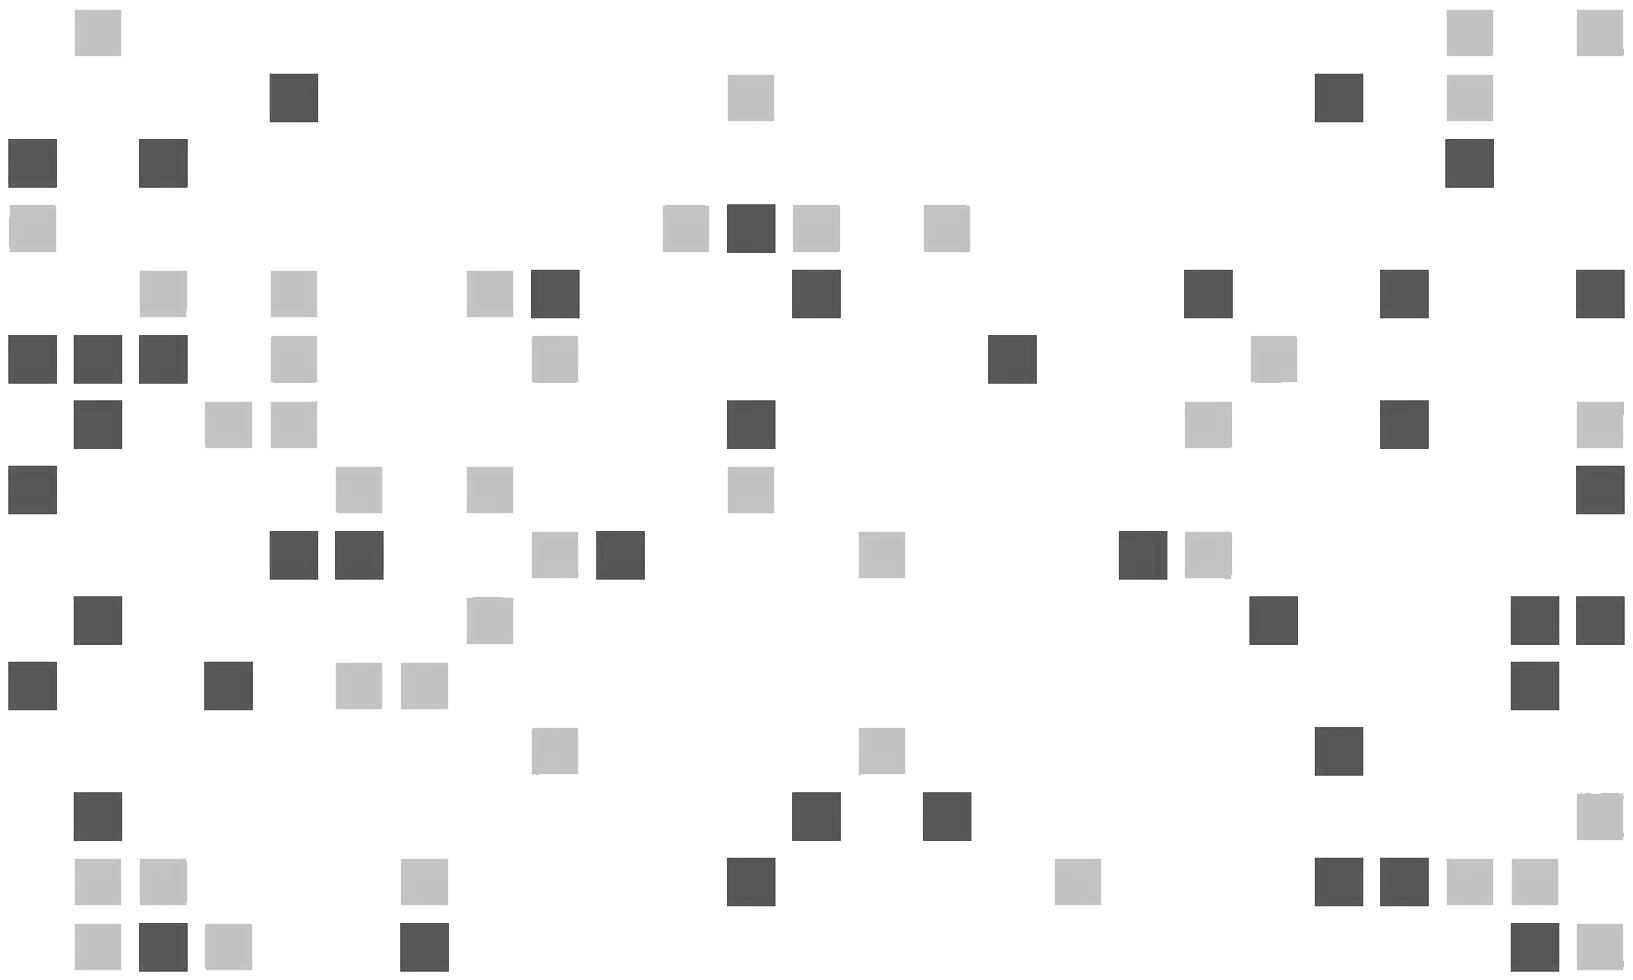
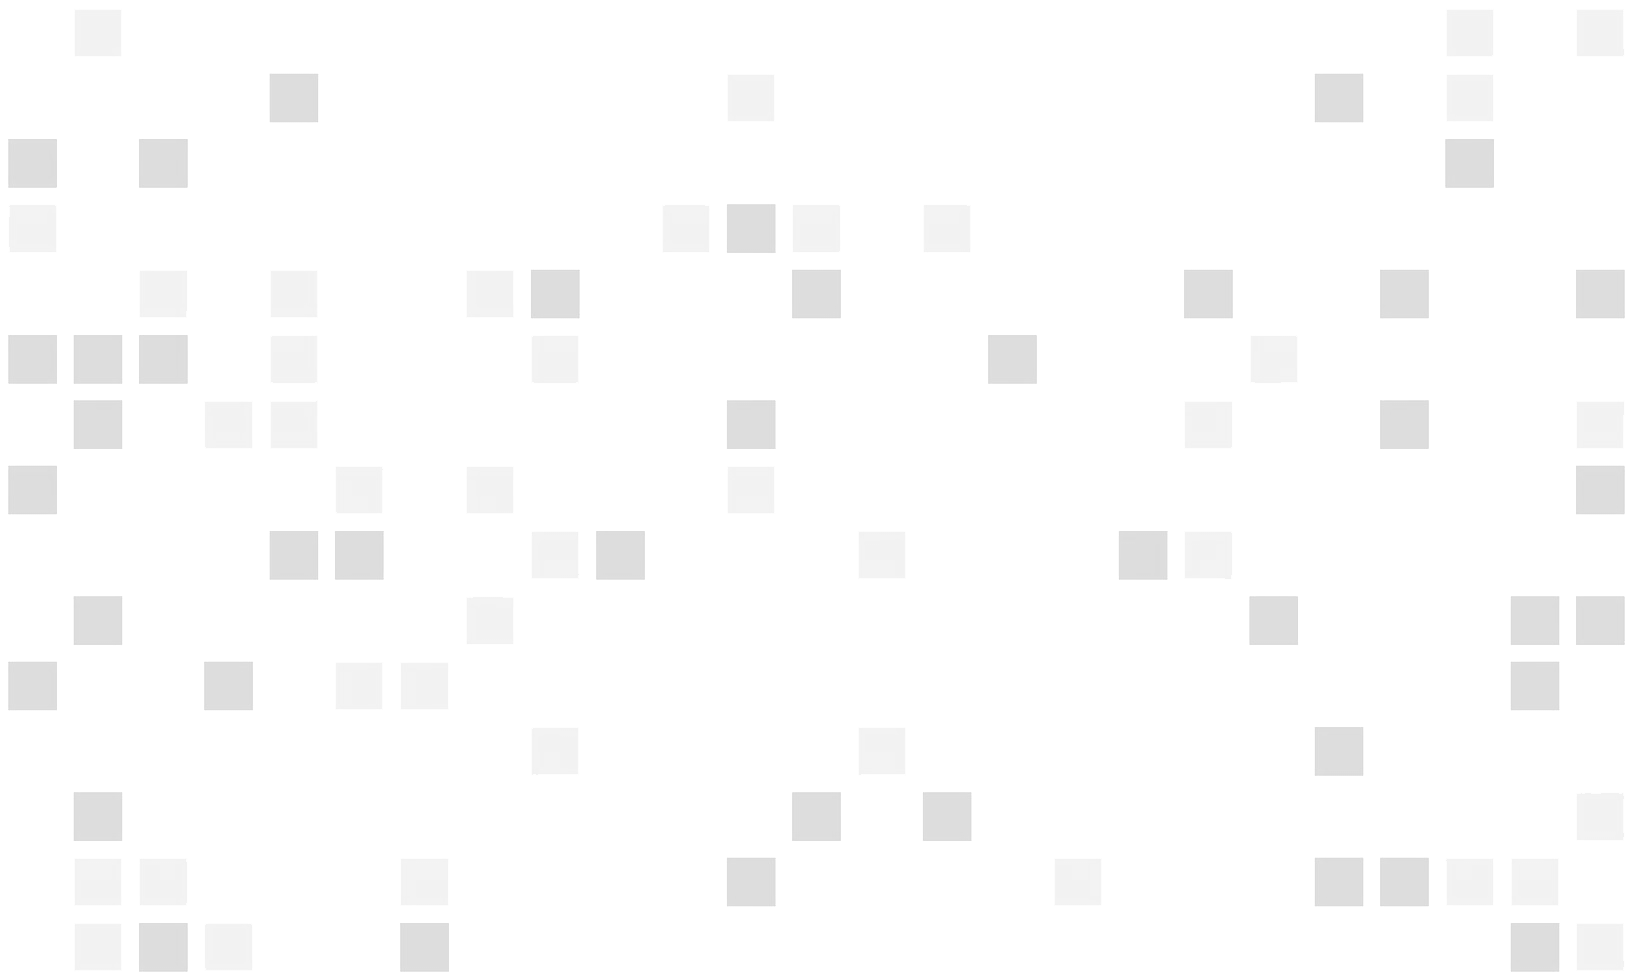
Fixing Background

diff --git a/src/styles/main.css b/src/styles/main.css
@@ -7,11 +7,7 @@ html { scroll-behavior: smooth; }
 body {
   font-family: var(--font-sans);
   font-size: var(--text-base);
-  background-color: var(--color-paper);
-  background-repeat: repeat-x;
-  background-size: auto 165px;
-  background-position: left bottom;
-  background-attachment: fixed;
+  background: var(--color-paper);
   color: var(--color-ink);
   -webkit-font-smoothing: antialiased;
   line-height: 1.5;
@@ -161,8 +157,19 @@ button { font-family: var(--font-sans); cursor: pointer; }
   pointer-events: none;
 }
 
-/* Background tile is now on body — this layer kept for JS compatibility only */
-.hero-bg-layer { display: none; }
+/* Background tile — full hero width, fixed 165px strip at bottom */
+.hero-bg-layer {
+  position: absolute;
+  bottom: 0;
+  left: 0;
+  right: 0;
+  height: 165px;
+  z-index: 0;
+  background-repeat: repeat-x;
+  background-size: auto 165px;
+  background-position: left bottom;
+  pointer-events: none;
+}
 
 /* Foreground image slots — full height cover, stacked, fade between */
 .hero-fg-layer {

diff --git a/src/js/main.js b/src/js/main.js
@@ -105,10 +105,11 @@ function applyHeroImages(data) {
 
   console.log('[VD] applyHeroImages', { heroFgImage1, heroFgImage2, heroFgImage3, heroBgImage, heroFadeSecs });
 
-  // Background tile — set on body so it spans the entire page
-  if (heroBgImage) {
-    document.body.style.backgroundImage = `url('${heroBgImage}')`;
-    console.log('[VD] Body background tile set');
+  // Background tile — full-width strip at bottom of hero section
+  const bgLayer = document.getElementById('heroBgLayer');
+  if (heroBgImage && bgLayer) {
+    bgLayer.style.backgroundImage = `url('${heroBgImage}')`;
+    console.log('[VD] Hero background tile set');
   }
 
   // Set bubble text — bubbles are always in the DOM, shown/hidden by class